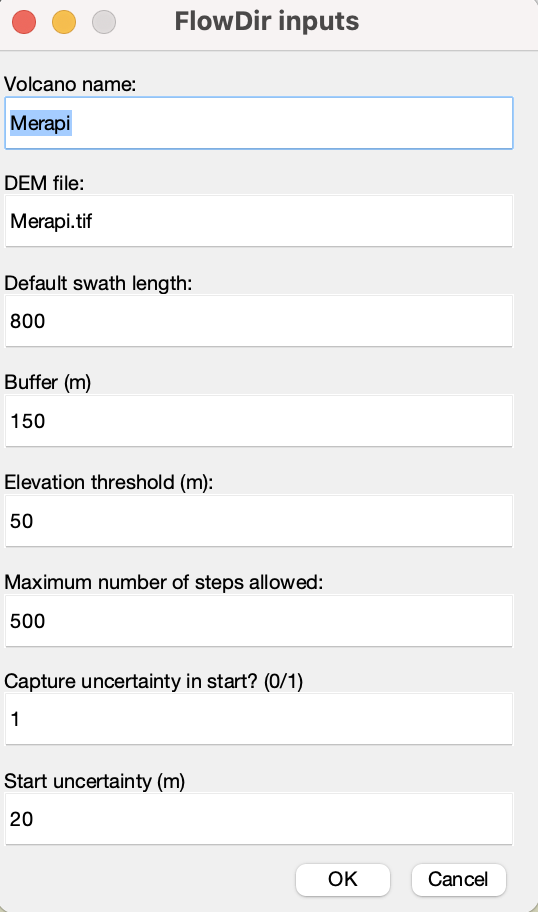
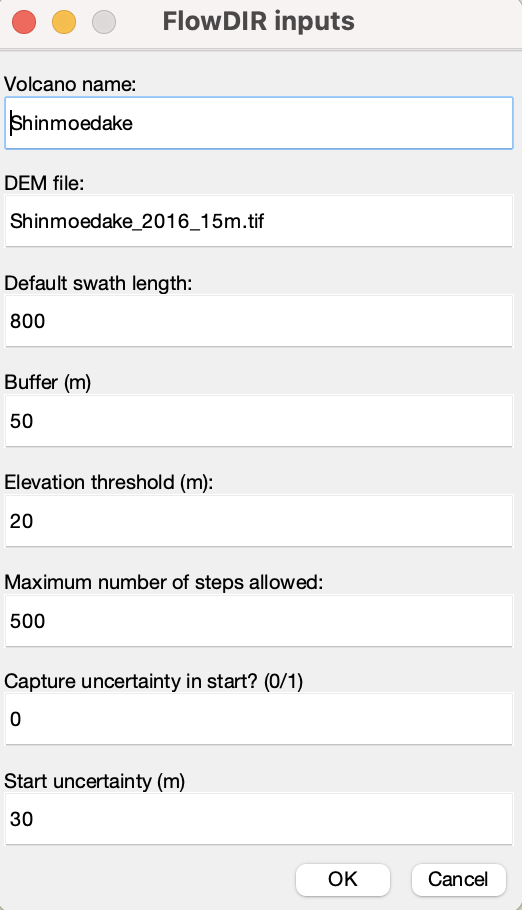
.
.

diff --git a/Code/FlowDir.m b/Code/FlowDir.m
@@ -1,8 +1,6 @@
 function [] = FlowDIR(volcano, dem, SWlength, craterX_temp, craterY_temp, buff, thr, steps, uncertainty, uncertM, varargin)
-%% FlowDIR provides a probabilistic forecast of the directionality of topographically
-% controlled hazardous flows. It can be run through the command line or using pop-up GUIs that
-% guide with input parameterisation 
-%_______________________________________________________________________________________________________
+%% FlowDIR provides a probabilistic forecast of the directionality of topographically controlled hazardous flows. It can be run through the command line or using pop-up GUIs that guide with input parameterisation 
+%______________________________________________________________________________________________________________________________________________________________________________________________________________
 %% Required input arguments:
 %
 %       volcano:            The name of the volcano                   e.g. 'Shinmoedake'
@@ -14,8 +12,10 @@ function [] = FlowDIR(volcano, dem, SWlength, craterX_temp, craterY_temp, buff, 
 %       thr:                Elevation gain threshold in meters. FlowDIR calculates whether the along swath elevation gain is above the threshold.
 %       steps:              The maximum allowed steps/active cells in the path of steepest descent calculation
 %       uncertainty:        Choose whether uncertainty in the start point is included. Input 0/1.     
-%       uncertM:            If uncertainty = 1, quantify the size of the initialisation polygon in m. 
-%_______________________________________________________________________________________________________
+%       uncertM:            If uncertainty = 1, quantify the size of the initialisation polygon in m. This should be a multiple of the DEM resolution
+%
+% e.g. FlowDIR('Shinmoedake', 'Shinmoedake_2016_15m.tif',800, 678155.0031, 3532081.651, 50,20, 200, 1, 30)
+%______________________________________________________________________________________________________________________________________________________________________________________________________________
 % Written by Elly Tennant 2020-21
 
 tic
@@ -26,8 +26,8 @@ warning('off','all')
 if nargin == 0 %(Interactive mode with GUIs)
 prompt = {'Volcano name:','DEM file:','Default swath length:', 'Buffer (m)', 'Elevation threshold (m):',...
     'Maximum number of steps allowed:', 'Capture uncertainty in start? (0/1)', 'Start uncertainty (m)'};
-dlgtitle = 'FlowDir inputs'; dims = [1 50];
-definput = {'Shinmoedake','Shinmoedake_2016_15m_clip.tif','800', '50','20', '500', '1', '15'};
+dlgtitle = 'FlowDIR inputs'; dims = [1 50];
+definput = {'Shinmoedake','Shinmoedake_2016_15m.tif','800', '50','20', '500', '0', '30'};
 inputs = inputdlg(prompt,dlgtitle,dims,definput);
     
     
@@ -76,7 +76,7 @@ end
      
 % Make sure that when uncertainty is not included the polygon is limited to
 % only one cell sized 
-if uncertainty = 0,
+if uncertainty == 0,
     uncertM = round(DEM.cellsize)
 end 
 

diff --git a/README.md b/README.md
@@ -1,19 +1,22 @@
 ## FlowDIR 2021
 *Elly Tennant, Susanna Jenkins, Sebastien Biass*
 
-FlowDIR is a MATLAB tool for forecasting the travel directions of effusive volcanic hazards (lava flows and block and ash flows). This page is meant as a quick start guide, for more information and an understanding of how FlowDIR works please refer to Tennant et al., (...). FlowDIR was written using MATLAB 2021a. Before starting ensure that you have the following MATLAB toolboxes installed: mapping; image processing, parallel computing.
+FlowDIR is a MATLAB tool for forecasting the travel directions of topographically controlled hazardous flows. This page is meant as a quick start guide, for more information and an understanding of how FlowDIR works please refer to Tennant et al., (...). 
+## Getting started
 
-### Getting started
+
+FlowDIR was written using MATLAB 2021a. Before starting ensure that you have the following MATLAB toolboxes installed: mapping; image processing, parallel computing.
 
 <ol> 
-<li> Download and unpack the zipfile into your MATLAB folder ensuring that the paths are set correctly. The folder contains all of the files needed to run FlowDir along with several case studies. The content of the folder is as follows: 
+
+<li> Download and unpack the zipfile into your MATLAB folder ensuring that the paths are set correctly. The folder contains all of the files needed to run FlowDIR along with several case studies. The content of the folder is as follows: 
 
 ```
-FlowDir
+FlowDIR
    ├── Code
-   |	 └── FlowDir.m
+   |	 └── FlowDIR.m
    ├── DEMs
-   |	 └── Merapi.tif
+   |	 └── Shinmoedake_2016_15m.tif
    ├── Dependancies
    |	 ├── topotoolbox-master
    |	 ├── invprctile.m
@@ -25,22 +28,27 @@ FlowDir
          		└── 1
 ```
 
-<li> Type `FlowDir` into the MATLAB command window and the following GUI will pop up:
+
+<li> FlowDIR can be run from the command line or through dedicated graphical user interfaces. Type ` help FlowDIR` into the MATLAB command window to learn more about the inputs required for command line executable mode. To run with the GUIs simply type `FlowDIR` into the command window and the following GUI will pop up:
 <br/>
 
 <center><img src="https://github.com/EllyTennant/FlowDir/blob/main/images/GUI.png" width="250"></center>
 
 <li> The input parameters are defined as:
 
-* **DEM file:** This should be a .tif format file and projected into the UTM coordinate system
-* **Default swath length:** This is the maximum distance away from the starting point that may be considerd in the calculation. For a crater summit topography FlowDir generates swathes extending from the start point to this length. The highest elevation along each swath is assumed to be the crater edge, swaths are clipped to this and a buffer is applied. This value should extend well beyond the crater edge.
-* **Buffer (m):** Buffer applied to the detected crater perimeter. The perimeter + this buffer will be the area included in the calculation. For dome summit topographies the maximum elevation along swath will be the summit, and swaths will extend from the start point to this buffer length.
-* **Elevation threshold (m):** This is a threshold used for crater overtopping and is not relevant to dome type topographies. FlowDir calculates the accumulated elevation change along the swath. Direction bins are identified as having along swath elevation gains above or below this threshold. Directions above this threshold cannot be overtopped. 
-* **Maximum number of steps allowed:** This is used in stage 2 of the calculation. FlowDir calculates the least cost path through the elevation matrix. This is the maximum number of cells that can be traversed in this calculation.
-* **Capture uncertainty in start? (0/1):** Binary option to include uncertainty in the user defined start point. When `capture uncertainty in start = 1`, FlowDir runs simulations using both the start point selected and the cells that surround it. The depth of the cells included is determined by the start uncertainty.
-* **Start uncertainty (m):** Here we define the distance to which uncertainty is included, for example if the DEM resolution is 10 m and 20 m is selected here, simulations are initiated from the 2 cells adjacent to the selected start point in each direction in addition to the start point, such that 17 unique simulations are conducted. 
+|  FlowDIR input    |  |
+| ----------- | ----------- |
+| DEM file      | This should be a .tif format file and projected into the UTM coordinate system       |
+| Default swath length   | This is the maximum distance away from the starting point that may be considerd in the calculation. FlowDIR generates swaths extending from the start point to this length. The highest elevation along each swath is identified and swaths are clipped to this and a buffer is applied. This value should extend well beyond the crater edge.        |
+| Buffer (m)     | Buffer applied to the detected crater perimeter. The perimeter + this buffer will be the area included in the calculation. For dome summit topographies the maximum elevation along swath will be the summit, and swaths will extend from the start point to this buffer length.      |
+|   Elevation threshold   | This is a threshold used for crater overtopping and is not relevant to dome type topographies. FlowDIR calculates the accumulated elevation change along the swath. Direction bins are identified as having along swath elevation gains above or below this threshold. Directions above this threshold cannot be overtopped.   |
+| Maximum number of steps allowed   | Used in stage 2 of the calculation (POSD). FlowDIR calculates the least cost path through the elevation matrix. This is the maximum number of cells that can be traversed in this calculation.  |
+|  Capture uncertainty in start? (0/1)   | Binary option to include uncertainty in the user defined start point. When capture uncertainty in start = 1, the initialisation polygon is enlarged and simulations are run using secondary start points within the polygon in addition to the initial starting coordinate. The size of the polygon is determined by the start uncertainty. |
+|  Start uncertainty (m)  | Here we define the distance to which uncertainty is included, for example if the DEM resolution is 10 m and 20 m is selected here, simulations are initiated from the 2 cells adjacent to the selected start point in each direction in addition to the start point, such that 17 unique simulations are conducted. |
 
-<li>FlowDir will plot the DEM, and ask you to clip it to an area of interest by drawing a polygon. +/- at the top right hand side of the plot can be used to zoom in or out.
+
+
+<li>FlowDIR will plot the DEM, and ask you to clip it to an area of interest by drawing a polygon. +/- at the top right hand side of the plot can be used to zoom in or out.
 <br/>
 
 <center><img src="https://github.com/EllyTennant/FlowDir/blob/main/images/clip_dem.png" width="400"></center>
@@ -62,4 +70,7 @@ Finished
 
 <br/>
 <img src="https://github.com/EllyTennant/FlowDir/blob/main/images/Shinmoedake_ex.png" width="800">
+
+##Citation
+FlowDIR was published in ...
 
